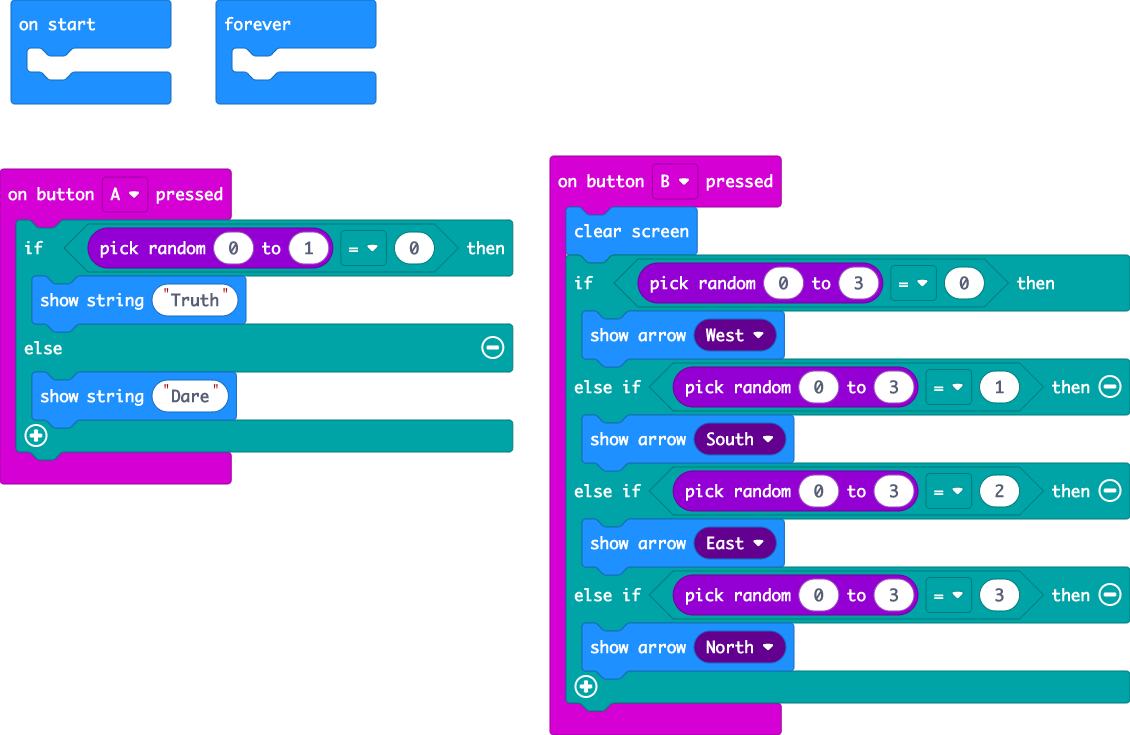
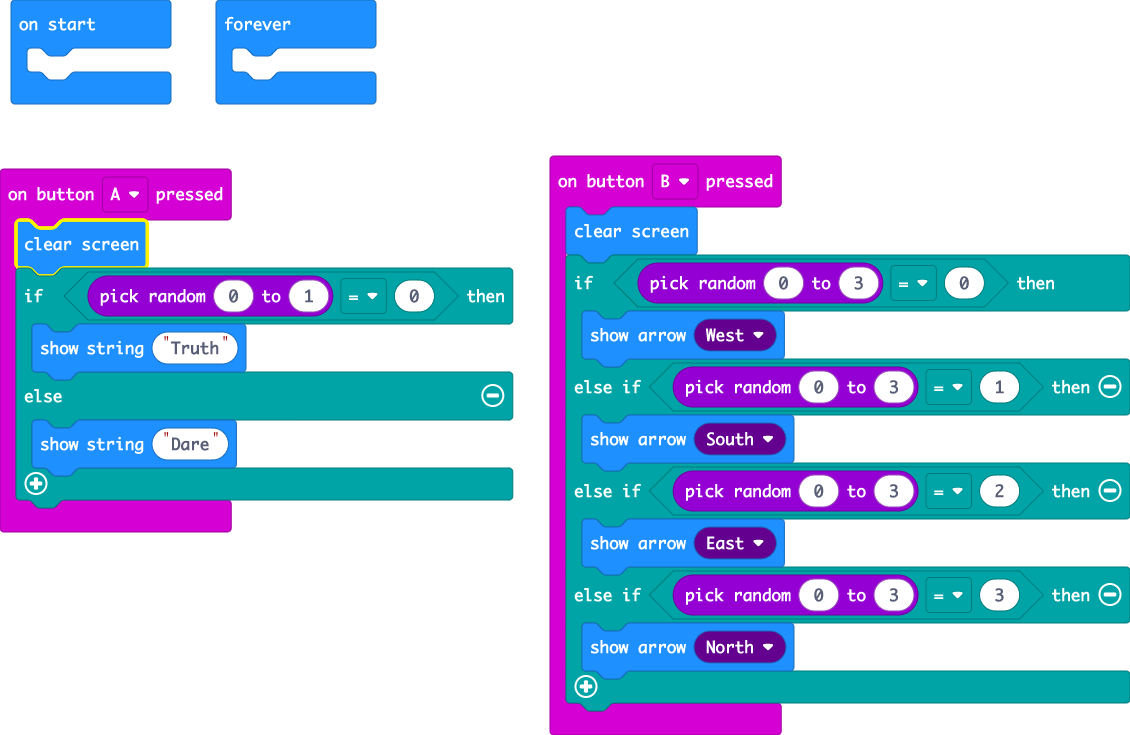
Update main.blocks, main.ts

Changed region(s): [[0.0, 0.2993, 0.4646, 0.7483]]

diff --git a/main.ts b/main.ts
@@ -1,4 +1,5 @@
 input.onButtonPressed(Button.A, function () {
+    basic.clearScreen()
     if (randint(0, 1) == 0) {
         basic.showString("Truth")
     } else {
